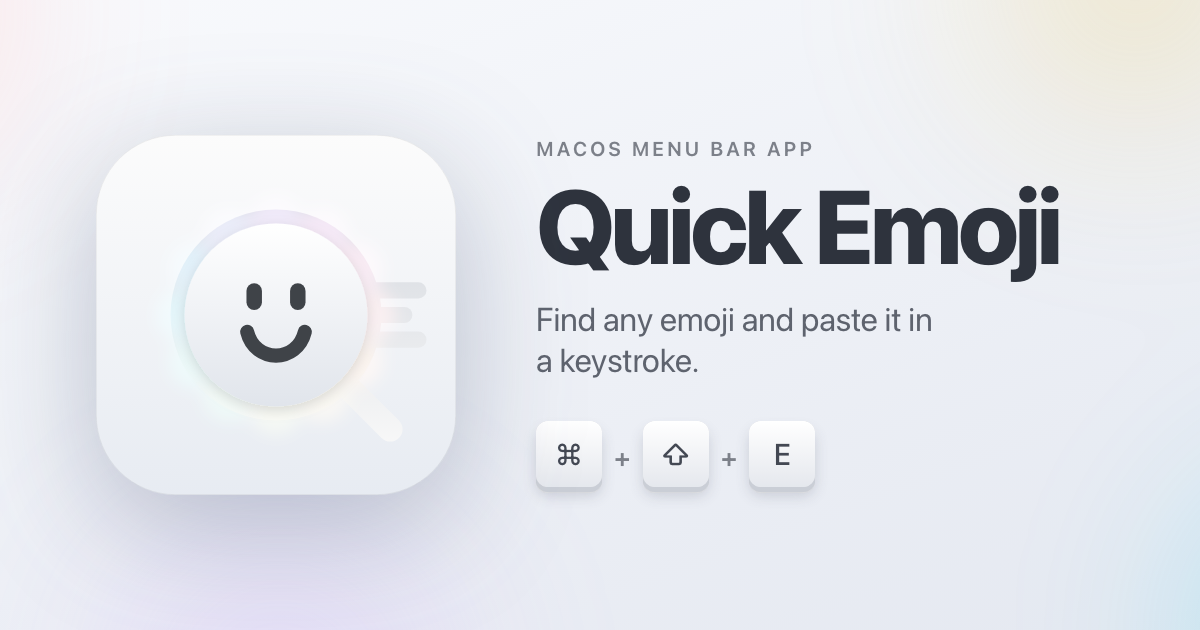
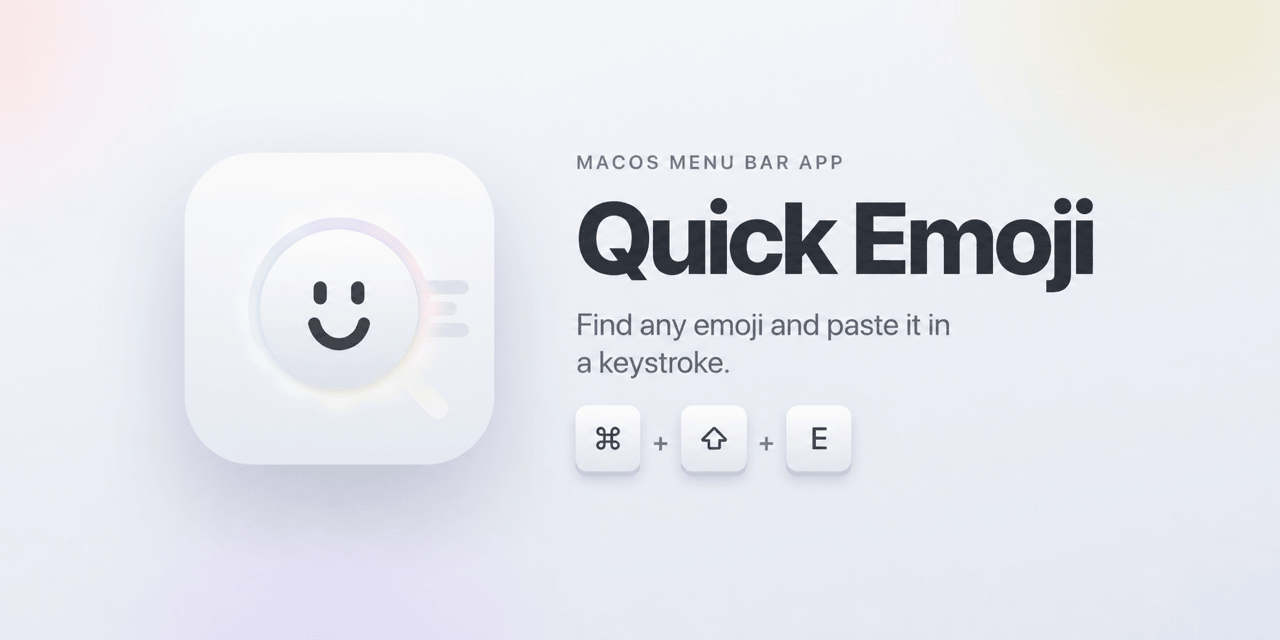
Update presentation

diff --git a/docs/index.html b/docs/index.html
@@ -11,10 +11,12 @@
 <meta property="og:description" content="Find any emoji and paste it in a keystroke.">
 <meta property="og:url" content="https://smnandre.github.io/QuickEmoji/">
 <meta property="og:image" content="https://smnandre.github.io/QuickEmoji/quickemoji-og.png">
-<meta property="og:image:width" content="1200">
-<meta property="og:image:height" content="630">
+<meta property="og:image:width" content="1280">
+<meta property="og:image:height" content="640">
 <meta property="og:image:alt" content="Quick Emoji for macOS">
 <meta name="twitter:card" content="summary_large_image">
+<meta name="twitter:image" content="https://smnandre.github.io/QuickEmoji/quickemoji-og.png">
+<meta name="twitter:image:alt" content="Quick Emoji for macOS">
 <style>
 @layer reset, tokens, base, layout, components, motion;
 

diff --git a/README.md b/README.md
@@ -1,8 +1,8 @@
 # QuickEmoji
 
-A macOS menu-bar app for inserting emoji and special characters from anywhere. One global shortcut opens a search-and-pick panel, then inserts the selected character into the app you were using. Visit [smnand.re/quickemoji](https://smnand.re/quickemoji).
+![QuickEmoji](docs/quickemoji-og.png)
 
-> The picker works in text-capable apps such as Safari, Notes, Slack, code editors, and terminals.
+Find and insert emoji and special characters with a global keyboard shortcut on macOS.
 
 ## Install
 
@@ -36,13 +36,9 @@ Country flags also match their two-letter codes, such as `fr`, `de`, or `jp`.
 
 ## First launch and Accessibility permission
 
-QuickEmoji asks for **Accessibility** access on first launch:
+QuickEmoji requires **Accessibility** access for the global shortcut, locating the text cursor, and inserting the selected character. macOS prompts for access on first launch:
 
 > System Settings → Privacy & Security → Accessibility → QuickEmoji
-
-If access is missing, QuickEmoji asks macOS for permission and waits for access to be granted.
-
-This is required for: the global ⌘⇧E shortcut, locating the text cursor, and inserting the chosen character into the focused field.
 
 QuickEmoji keeps emoji usage and per-app ranking data on your Mac. It sends no emoji history or focused-field content. The manual update check reads the published Homebrew cask. There is no telemetry.
 
@@ -51,7 +47,7 @@ QuickEmoji keeps emoji usage and per-app ranking data on your Mac. It sends no e
 Click the menu-bar icon for:
 
 - **Show Picker (⌘⇧E)** - same as the shortcut
-- **Check for Updates…** - one-shot lookup against the published Homebrew cask. No background polling, no telemetry.
+- **Check for Updates…** - checks the published Homebrew cask once
 - **Settings…** - configure whether QuickEmoji launches when you sign in.
 
 ## Requirements
@@ -75,4 +71,4 @@ Contributions are welcome. Run `make verify` before opening a pull request.
 
 ## License
 
-Released by [Simon André](https://smnandre.dev) under the [MIT License](LICENSE).
+QuickEmoji is released by [Simon André](https://smnandre.dev) under the [MIT License](LICENSE).
